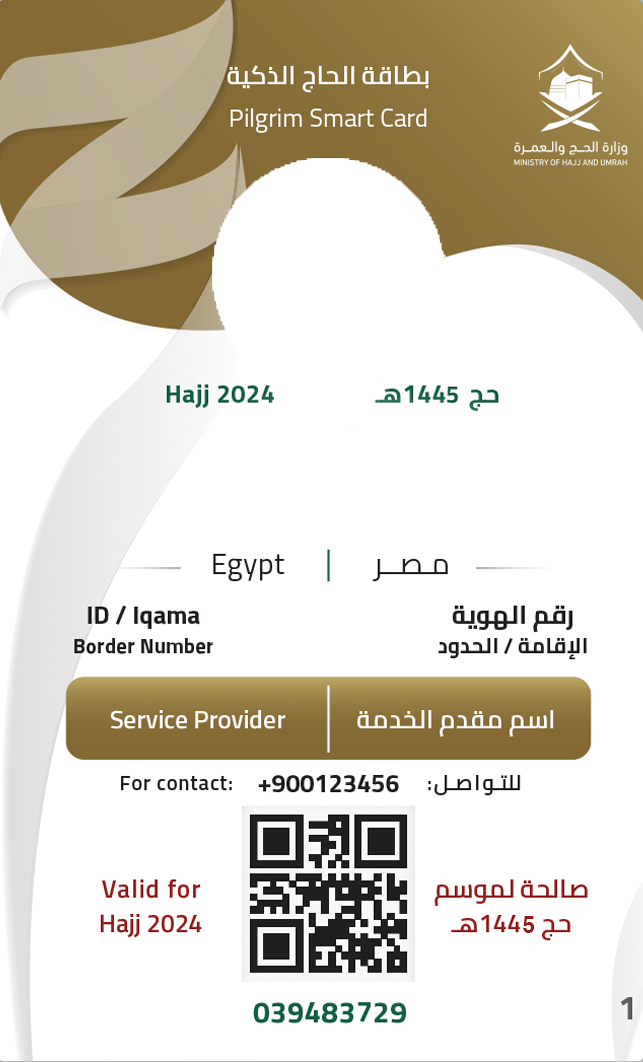
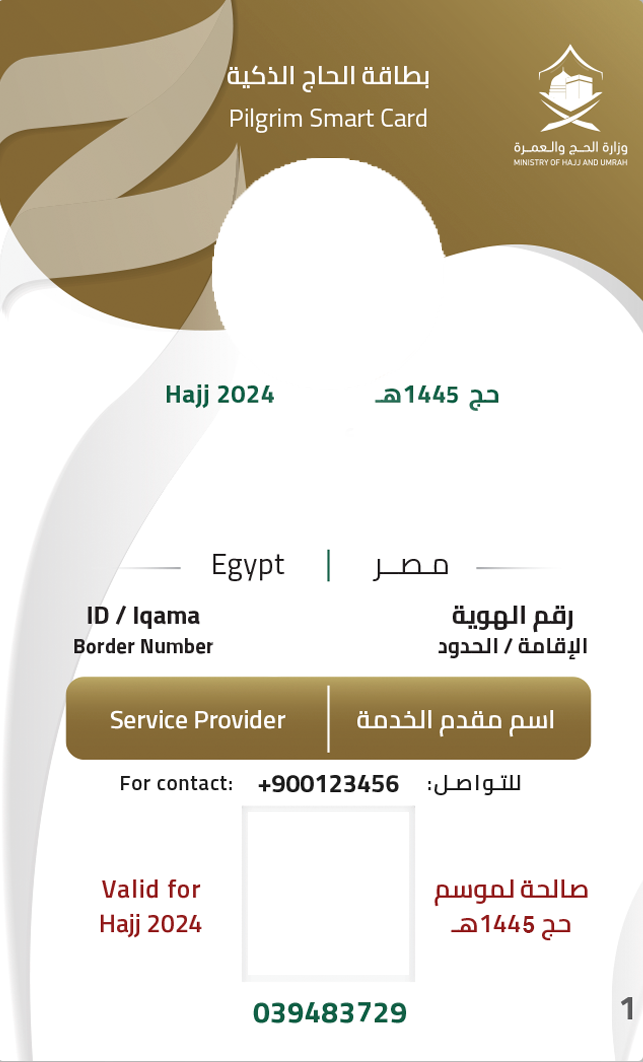
upload files

Changed region(s): [[0.3733, 0.7458, 0.6532, 0.9322]]

diff --git a/src/style/main.css b/src/style/main.css
@@ -411,7 +411,7 @@ ol.breadcrumb li:not(.active):after {
   margin-top: 62px;
 }
 .content .qr1-cont {
-  margin-top: 143px;
+  margin-top: 163px;
   height: 167px;
   width: 165px;
   overflow: hidden;

diff --git a/src/style/sass/components/_home.scss b/src/style/sass/components/_home.scss
@@ -88,7 +88,7 @@
         margin-top: 62px;
     }
     .qr1-cont{
-        margin-top: 143px;
+        margin-top: 163px;
         height: 167px;
         width: 165px;
         overflow: hidden;
